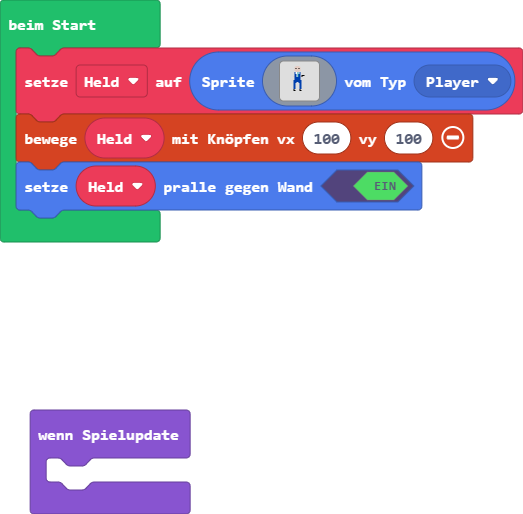
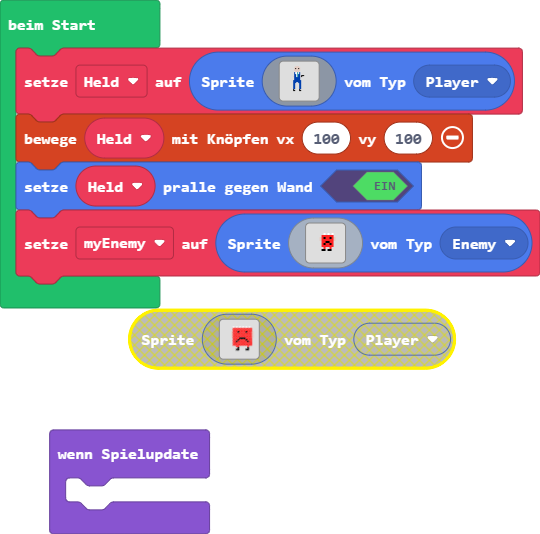
Aktualisiere pxt.json, main.blocks, main.ts, tilemap.g.jres, tilemap.g.ts

diff --git a/tilemap.g.ts b/tilemap.g.ts
@@ -1,0 +1,153 @@
+// Automatisch generierter Code. Nicht bearbeiten.
+namespace myTiles {
+    //% fixedInstance jres blockIdentity=images._tile
+    export const transparency16 = image.ofBuffer(hex``);
+
+    helpers._registerFactory("tilemap", function(name: string) {
+        switch(helpers.stringTrim(name)) {
+            case "Level1":
+            case "Level1":return tiles.createTilemap(hex`1000100000000000000000000000000000000000000000000000000000000000000000000000000000000000000000000000000000000000000000000000000000000000000000000000000000000000000000000000000000000000000000000000000000000000000000000000000000000000000000000000000000000000000000000000000000000000000000000000000000000000000000000000000000000000000000000000000000000000000000000000000000000000000000000000000000000000000000000000000000000000000000000000000000000000000000000000000000000000000000000000000000000000000000000000000000000000`, img`
+. . . . . . . . . . . . . . . . 
+. . . . . . . . . . . . . . . . 
+. . . . . . . . . . . . . . . . 
+. . . . . . . . . . . . . . . . 
+. . . . . . . . . . . . . . . . 
+. . . . . . . . . . . . . . . . 
+. . . . . . . . . . . . . . . . 
+. . . . . . . . . . . . . . . . 
+. . . . . . . . . . . . . . . . 
+. . . . . . . . . . . . . . . . 
+. . . . . . . . . . . . . . . . 
+. . . . . . . . . . . . . . . . 
+. . . . . . . . . . . . . . . . 
+. . . . . . . . . . . . . . . . 
+. . . . . . . . . . . . . . . . 
+. . . . . . . . . . . . . . . . 
+`, [myTiles.transparency16], TileScale.Sixteen);
+            case "Level3":
+            case "Level3":return tiles.createTilemap(hex`1000100000000000000000000000000000000000000000000000000000000000000000000000000000000000000000000000000000000000000000000000000000000000000000000000000000000000000000000000000000000000000000000000000000000000000000000000000000000000000000000000000000000000000000000000000000000000000000000000000000000000000000000000000000000000000000000000000000000000000000000000000000000000000000000000000000000000000000000000000000000000000000000000000000000000000000000000000000000000000000000000000000000000000000000000000000000000`, img`
+. . . . . . . . . . . . . . . . 
+. . . . . . . . . . . . . . . . 
+. . . . . . . . . . . . . . . . 
+. . . . . . . . . . . . . . . . 
+. . . . . . . . . . . . . . . . 
+. . . . . . . . . . . . . . . . 
+. . . . . . . . . . . . . . . . 
+. . . . . . . . . . . . . . . . 
+. . . . . . . . . . . . . . . . 
+. . . . . . . . . . . . . . . . 
+. . . . . . . . . . . . . . . . 
+. . . . . . . . . . . . . . . . 
+. . . . . . . . . . . . . . . . 
+. . . . . . . . . . . . . . . . 
+. . . . . . . . . . . . . . . . 
+. . . . . . . . . . . . . . . . 
+`, [myTiles.transparency16], TileScale.Sixteen);
+            case "Level4":
+            case "Level4":return tiles.createTilemap(hex`1000100000000000000000000000000000000000000000000000000000000000000000000000000000000000000000000000000000000000000000000000000000000000000000000000000000000000000000000000000000000000000000000000000000000000000000000000000000000000000000000000000000000000000000000000000000000000000000000000000000000000000000000000000000000000000000000000000000000000000000000000000000000000000000000000000000000000000000000000000000000000000000000000000000000000000000000000000000000000000000000000000000000000000000000000000000000000`, img`
+. . . . . . . . . . . . . . . . 
+. . . . . . . . . . . . . . . . 
+. . . . . . . . . . . . . . . . 
+. . . . . . . . . . . . . . . . 
+. . . . . . . . . . . . . . . . 
+. . . . . . . . . . . . . . . . 
+. . . . . . . . . . . . . . . . 
+. . . . . . . . . . . . . . . . 
+. . . . . . . . . . . . . . . . 
+. . . . . . . . . . . . . . . . 
+. . . . . . . . . . . . . . . . 
+. . . . . . . . . . . . . . . . 
+. . . . . . . . . . . . . . . . 
+. . . . . . . . . . . . . . . . 
+. . . . . . . . . . . . . . . . 
+. . . . . . . . . . . . . . . . 
+`, [myTiles.transparency16], TileScale.Sixteen);
+            case "Level5":
+            case "Level5":return tiles.createTilemap(hex`1000100000000000000000000000000000000000000000000000000000000000000000000000000000000000000000000000000000000000000000000000000000000000000000000000000000000000000000000000000000000000000000000000000000000000000000000000000000000000000000000000000000000000000000000000000000000000000000000000000000000000000000000000000000000000000000000000000000000000000000000000000000000000000000000000000000000000000000000000000000000000000000000000000000000000000000000000000000000000000000000000000000000000000000000000000000000000`, img`
+. . . . . . . . . . . . . . . . 
+. . . . . . . . . . . . . . . . 
+. . . . . . . . . . . . . . . . 
+. . . . . . . . . . . . . . . . 
+. . . . . . . . . . . . . . . . 
+. . . . . . . . . . . . . . . . 
+. . . . . . . . . . . . . . . . 
+. . . . . . . . . . . . . . . . 
+. . . . . . . . . . . . . . . . 
+. . . . . . . . . . . . . . . . 
+. . . . . . . . . . . . . . . . 
+. . . . . . . . . . . . . . . . 
+. . . . . . . . . . . . . . . . 
+. . . . . . . . . . . . . . . . 
+. . . . . . . . . . . . . . . . 
+. . . . . . . . . . . . . . . . 
+`, [myTiles.transparency16], TileScale.Sixteen);
+            case "Level6":
+            case "Level6":return tiles.createTilemap(hex`1000100000000000000000000000000000000000000000000000000000000000000000000000000000000000000000000000000000000000000000000000000000000000000000000000000000000000000000000000000000000000000000000000000000000000000000000000000000000000000000000000000000000000000000000000000000000000000000000000000000000000000000000000000000000000000000000000000000000000000000000000000000000000000000000000000000000000000000000000000000000000000000000000000000000000000000000000000000000000000000000000000000000000000000000000000000000000`, img`
+. . . . . . . . . . . . . . . . 
+. . . . . . . . . . . . . . . . 
+. . . . . . . . . . . . . . . . 
+. . . . . . . . . . . . . . . . 
+. . . . . . . . . . . . . . . . 
+. . . . . . . . . . . . . . . . 
+. . . . . . . . . . . . . . . . 
+. . . . . . . . . . . . . . . . 
+. . . . . . . . . . . . . . . . 
+. . . . . . . . . . . . . . . . 
+. . . . . . . . . . . . . . . . 
+. . . . . . . . . . . . . . . . 
+. . . . . . . . . . . . . . . . 
+. . . . . . . . . . . . . . . . 
+. . . . . . . . . . . . . . . . 
+. . . . . . . . . . . . . . . . 
+`, [myTiles.transparency16], TileScale.Sixteen);
+            case "Level7":
+            case "Level7":return tiles.createTilemap(hex`1000100000000000000000000000000000000000000000000000000000000000000000000000000000000000000000000000000000000000000000000000000000000000000000000000000000000000000000000000000000000000000000000000000000000000000000000000000000000000000000000000000000000000000000000000000000000000000000000000000000000000000000000000000000000000000000000000000000000000000000000000000000000000000000000000000000000000000000000000000000000000000000000000000000000000000000000000000000000000000000000000000000000000000000000000000000000000`, img`
+. . . . . . . . . . . . . . . . 
+. . . . . . . . . . . . . . . . 
+. . . . . . . . . . . . . . . . 
+. . . . . . . . . . . . . . . . 
+. . . . . . . . . . . . . . . . 
+. . . . . . . . . . . . . . . . 
+. . . . . . . . . . . . . . . . 
+. . . . . . . . . . . . . . . . 
+. . . . . . . . . . . . . . . . 
+. . . . . . . . . . . . . . . . 
+. . . . . . . . . . . . . . . . 
+. . . . . . . . . . . . . . . . 
+. . . . . . . . . . . . . . . . 
+. . . . . . . . . . . . . . . . 
+. . . . . . . . . . . . . . . . 
+. . . . . . . . . . . . . . . . 
+`, [myTiles.transparency16], TileScale.Sixteen);
+            case "Level2":
+            case "Level2":return tiles.createTilemap(hex`1000100000000000000000000000000000000000000000000000000000000000000000000000000000000000000000000000000000000000000000000000000000000000000000000000000000000000000000000000000000000000000000000000000000000000000000000000000000000000000000000000000000000000000000000000000000000000000000000000000000000000000000000000000000000000000000000000000000000000000000000000000000000000000000000000000000000000000000000000000000000000000000000000000000000000000000000101010101010101010101010101010101010101010101010101010101010101`, img`
+. . . . . . . . . . . . . . . . 
+. . . . . . . . . . . . . . . . 
+. . . . . . . . . . . . . . . . 
+. . . . . . . . . . . . . . . . 
+. . . . . . . . . . . . . . . . 
+. . . . . . . . . . . . . . . . 
+. . . . . . . . . . . . . . . . 
+. . . . . . . . . . . . . . . . 
+. . . . . . . . . . . . . . . . 
+. . . . . . . . . . . . . . . . 
+. . . . . . . . . . . . . . . . 
+. . . . . . . . . . . . . . . . 
+. . . . . . . . . . . . . . . . 
+. . . . . . . . . . . . . . . . 
+. . . . . . . . . . . . . . . . 
+. . . . . . . . . . . . . . . . 
+`, [myTiles.transparency16,sprites.dungeon.hazardLava1], TileScale.Sixteen);
+        }
+        return null;
+    })
+
+    helpers._registerFactory("tile", function(name: string) {
+        switch(helpers.stringTrim(name)) {
+            case "transparency16":return transparency16;
+        }
+        return null;
+    })
+
+}
+// Automatisch generierter Code. Nicht bearbeiten.

diff --git a/main.ts b/main.ts
@@ -34,6 +34,24 @@ let Held = sprites.create(img`
     `, SpriteKind.Player)
 controller.moveSprite(Held, 100, 100)
 Held.setBounceOnWall(true)
+let myEnemy = sprites.create(img`
+    . . . . . . . . . . . . . . . . 
+    . . . . . . . . . . . . . . . . 
+    . . . . . . . . . . . . . . . . 
+    . . . . . . . 1 . 1 . 1 . . . . 
+    . . . . . . 2 2 2 2 2 2 . . . . 
+    . . . . . d 2 f 2 2 f 2 d . . . 
+    . . . . . d 2 2 2 2 2 2 d . . . 
+    . . . . . . 2 2 f f 2 2 . . . . 
+    . . . . . . 2 f 2 2 f 2 . . . . 
+    . . . . . . 2 2 2 2 2 2 . . . . 
+    . . . . . . . 2 . . 2 . . . . . 
+    . . . . . . f f . f f . . . . . 
+    . . . . . . . . . . . . . . . . 
+    . . . . . . . . . . . . . . . . 
+    . . . . . . . . . . . . . . . . 
+    . . . . . . . . . . . . . . . . 
+    `, SpriteKind.Enemy)
 game.onUpdate(function () {
 	
 })
